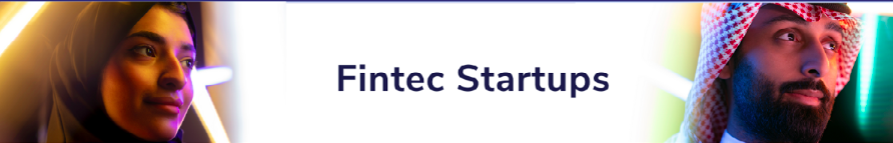
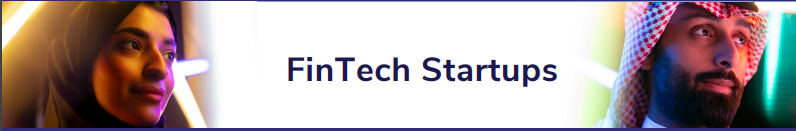
font changes and images compressed

diff --git a/src/sass/components/_hero.scss b/src/sass/components/_hero.scss
@@ -1,5 +1,5 @@
 .backgroundImage {
-  background-image: url("../../TC2\ -\ Backgrounds\ 1920x1200\ -\ Sport\ -\ v2.0.png");
+  background-image: url("../../hero.png");
   background-repeat: no-repeat;
   background-size: cover;
   width: 100%;
@@ -30,16 +30,16 @@
   // align-items: center;
   // justify-content: center;
   &_title-image {
-    padding-top: 50px;
+    padding-top: 80px;
     display: flex;
-    width: 100%;
+    width: 103%;
     justify-content: center;
-    height: 150px;
+    height: 50px;
     &_title-image-ls {
       height: 150px;
     }
     @media (max-width: 860px) {
-      height: 50px;
+      height: 20px;
       width: 100%;
       justify-content: center;
     }
@@ -52,21 +52,23 @@
   }
   &_title-h1 {
     color: white;
-    margin-bottom: -20px;
+    margin-bottom: -50px;
     font-size: 80px;
     font-weight: bold;
     @media (max-width: 860px) {
-      font-size: 40px;
+      font-size: 25px;
       font-weight: bold;
+      margin-bottom: -25px;
     }
   }
   &_title-h2 {
     color: white;
-    font-size: 60px;
+    font-size: 90px;
     font-weight: 300;
+    margin-top:25px;
     @media (max-width: 860px) {
-      font-size: 30px;
-      font-weight: 300;
+      font-size: 27px;
+      font-weight: 200;
     }
   }
   &_logos {
@@ -80,11 +82,11 @@
     // margin-left:20px;
     // margin-right:20px;
     
-    &-left {
+    &-right {
       display: inline-block;
       position: absolute;
       top: 590px;
-      right: 10px;
+      right: 30px;
       align-items: center;
       justify-content: space-between;
       height: 40px;
@@ -100,7 +102,7 @@
 
       }
     }
-    &-right {
+    &-left {
       position: absolute;
       top: 600px;
       left: 50px;

diff --git a/src/components/HeroComponents.js b/src/components/HeroComponents.js
@@ -4,6 +4,7 @@ import poweredBy from "../2x/poweredBy@2x.png";
 // import creativeHQ from '../2x/CHQ_logo@2x.png';
 import creativeHQ from '../2x/cq-logo@2x.png';
 import techChampions from '../2x/techChamp@2x.png';
+
 const HeroComponents = () => {
   return (
     <div className="backgroundImage">
@@ -19,12 +20,12 @@ const HeroComponents = () => {
     </div>
 
     <div className="hero_logos">
-    <div className="hero_logos-right">
-        <img src={poweredBy}  className='hero_logos-right-poweredby'/>
-        <img src={creativeHQ}  className='hero_logos-right-cq'  />
-    </div>
     <div className="hero_logos-left">
-        <img src={mcit} className='hero_logos-left-img'/>
+        <img src={poweredBy}  className='hero_logos-left-poweredby'/>
+        <img src={creativeHQ}  className='hero_logos-left-cq'  />
+    </div>
+    <div className="hero_logos-right">
+        <img src={mcit} className='hero_logos-right-img'/>
     </div>
 
     </div>

diff --git a/src/sass/components/_startups.scss b/src/sass/components/_startups.scss
@@ -27,6 +27,7 @@
   &_right {
     display: inline-block;
     // position: absolute;
+    width: 100%;
     &-title {
       top: 10;
       left: 10;
@@ -46,7 +47,7 @@
     }
     &-circles {
       display: flex;
-      justify-content: space-around;
+      justify-content: space-between;
       align-items: center;
       flex-direction: row;
       @media (max-width: 860px) {
